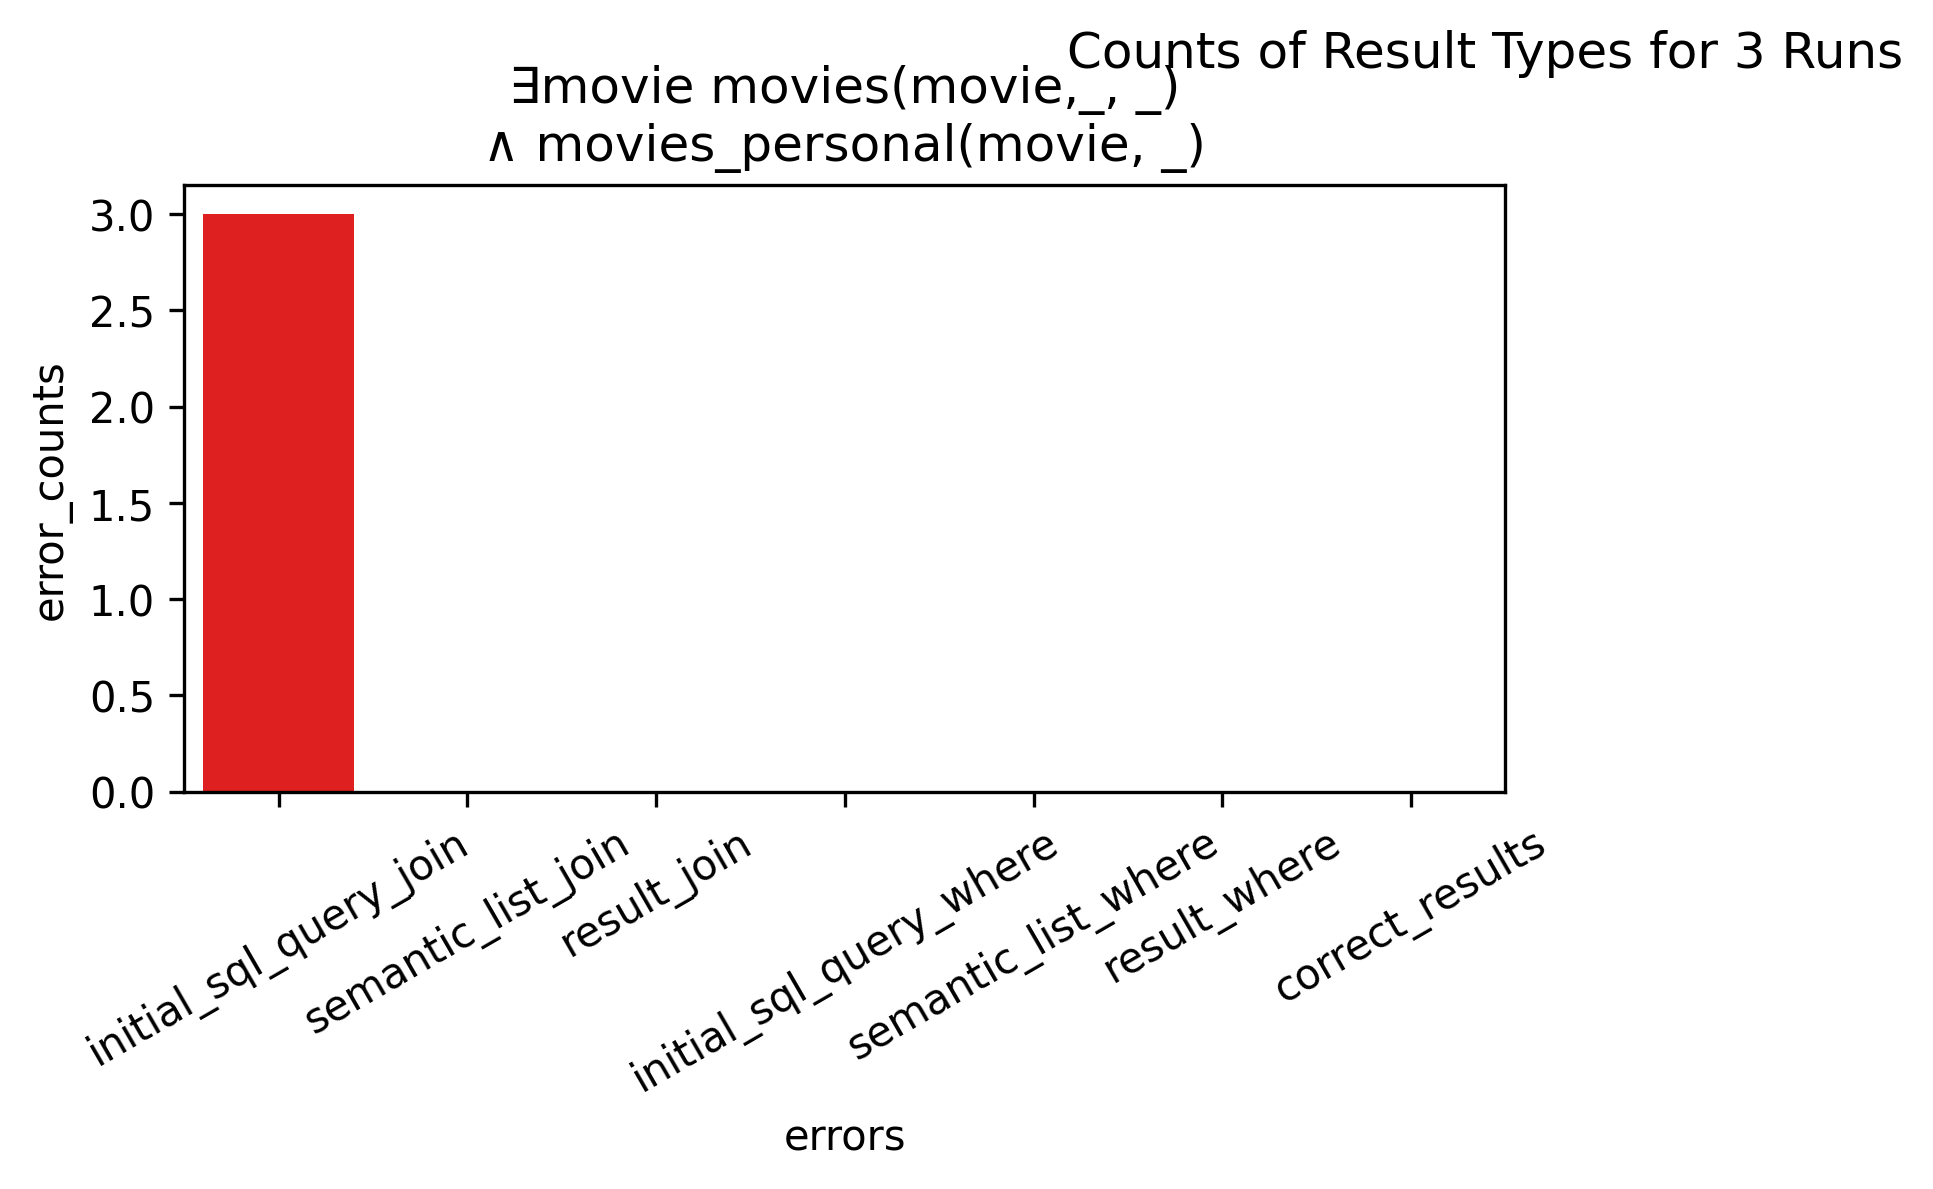
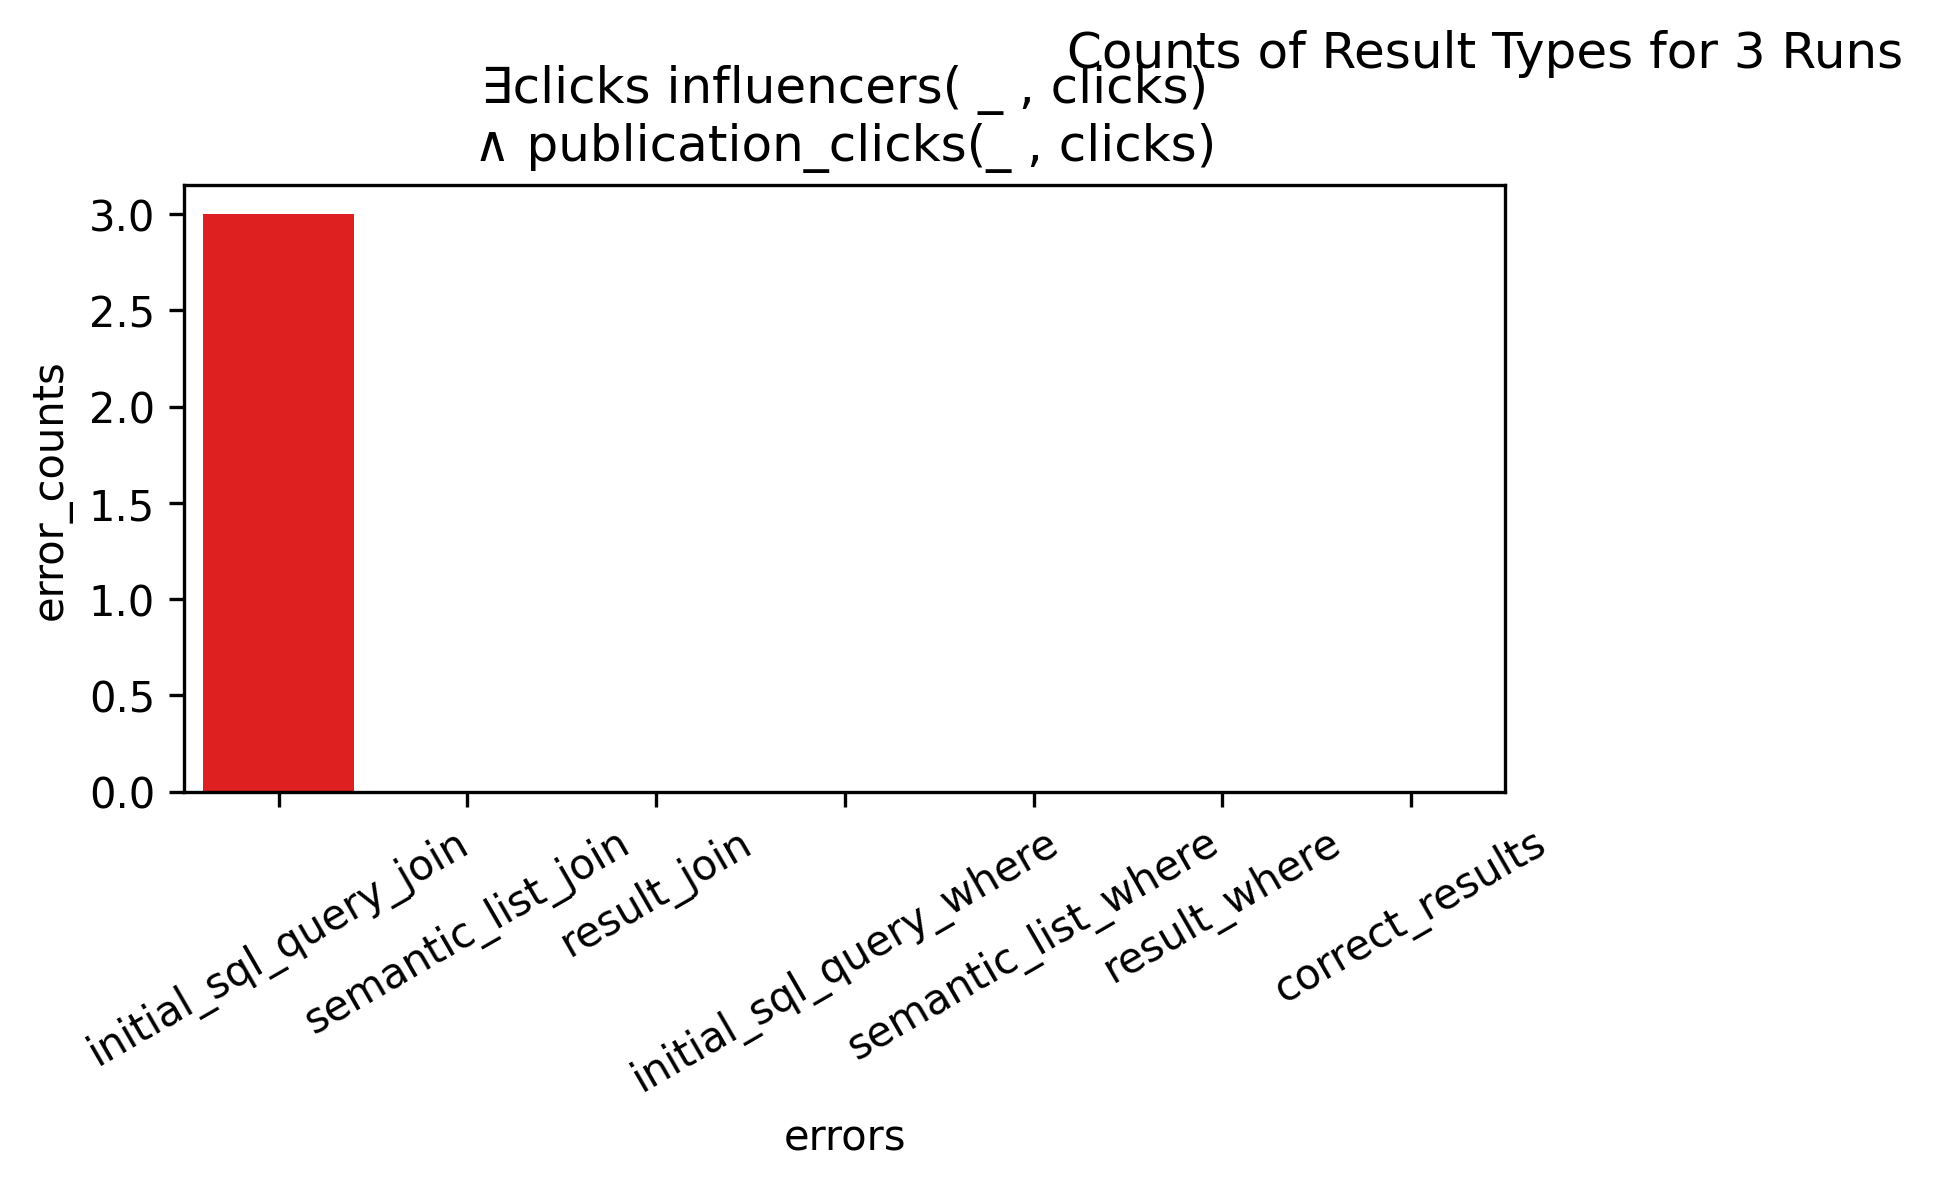
Test visualization imporved, all examples finished

Changed region(s): [[0.2483, 0.0311, 0.6208, 0.1556]]

diff --git a/test_visualization.py b/test_visualization.py
@@ -57,16 +57,25 @@ def visualize_errors_category(error_total, queries_list, categorization):
         total_dic = pd.DataFrame(total_dic) 
         # Define a mapping from categories to numbers
         category_mapping = {category: idx for idx, category in enumerate(total_dic['categories'], start=1)}
+        # Create the reverse mapping for legend labels
+        reverse_mapping = {v: k for k, v in category_mapping.items()}
         # Replace categories with their numeric mapping
         total_dic['categories_numeric'] = total_dic['categories'].map(category_mapping)
 
-
-        sns.barplot(x='categories_numeric', y='total_counts', data=total_dic, ax=ax, palette=colors)
-        ax.set_title(f"Error Counts for: {category}", fontsize=10) #Smaller fontsize
+        handles = [plt.Rectangle((0, 0), 1, 1, color=color, label=f"{key}={value}") 
+           for (key, value), color in zip(category_mapping.items(), colors)]
+        #Deprecated
+        #sns.barplot(x='categories_numeric', y='total_counts', data=total_dic, ax=ax, palette=colors)
+        #sns.barplot(x='categories_numeric', y='total_counts', data=total_dic, ax=ax, hue='categories_numeric', palette=colors, legend=False)
+        ax.bar(total_dic["categories_numeric"], total_dic["total_counts"], color=colors)
+        ax.set_title(f"Error Counts for: \n {category}", fontsize=10) #Smaller fontsize
         ax.tick_params(axis='x', rotation=0, labelsize=8) #Smaller fontsize
         ax.tick_params(axis='y', labelsize=8) #Smaller fontsize
         ax.set_xlabel("Error Type", fontsize=9) #Smaller fontsize
         ax.set_ylabel("Total Count", fontsize=9) #Smaller fontsize
+        # colors = ['red'] * 6 + ['blue'] # make sure this is defined before the code, and matches the number of categories
+        # handles = [plt.Rectangle((0, 0), 1, 1, color=color, label=label) for label, color in zip(category_mapping.keys(), colors)]
+        # ax.legend(handles=handles, title='Category Mapping', bbox_to_anchor=(1.05, 1))
         plt.tight_layout()
         # colors = sns.color_palette("tab10", len(category_mapping))  # Generate colors based on the number of categories
         # handles = [
@@ -79,13 +88,22 @@ def visualize_errors_category(error_total, queries_list, categorization):
     for j in range(i + 1, len(axes)):
         fig.delaxes(axes[j])
 
+    labels = [cat for cat in reverse_mapping.values()]
     # Add a legend outside the subplots
-    # Add a legend outside the subplots
-    handles = [plt.Rectangle((0, 0), 1, 1, color=color, label=f"{category}") for category, color in zip(categorization, colors)]
-    fig.legend(handles=handles, title="Category Mapping", bbox_to_anchor=(1.05, 1), loc='upper left')
-
+    # handles = [plt.Rectangle((0, 0), 1, 1, color=color, label=f"{key}={value}") 
+    #        for (key, value), color in zip(category_mapping.items(), colors)]
+    # fig.legend(
+    #     #handles=handles,
+    #     #labels=labels,
+    #     title="Category Mapping", bbox_to_anchor=(1.05, 1), loc='lower left')
+    title = " || ".join([f"{key} : {value}" for key, value in category_mapping.items()])
+    parts = title.split(" || ")
+    title = " || ".join(parts[:3] + ["\n"] + parts[3:])
+    fig.suptitle(f"{title}") #Smaller fontsize
+    plt.tight_layout()
     filepath_total_fig = os.path.join(os.getcwd(), "saved_plots", "total_plot_category.png")
     fig.savefig(filepath_total_fig, dpi=300, bbox_inches='tight')
+    print("Total plot saved to 'saved_plots' folder.")
     plt.show()
 
 visualize_errors_category(error_total, queries_list, categorization)

diff --git a/row_calculus_pipeline.py b/row_calculus_pipeline.py
@@ -429,7 +429,7 @@ def compare_semantics_in_list(input_list):
 
 #Designed for intial query
 def initial_query(query,context):
-        response, temp_meta = ask_gemini(f"Convert the following query to SQL. Write this query without using the AS: : {query}. Do not use subqueries, meaning try to use only one 'SELECT' command, but instead use INNER JOINS. Don't rename any of the tables in the query. For every colum reference the respective table. Do not use the Keyword CAST. Select all rows by starting with 'SELECT * '  The structure of the database is the following: {context}.", True,max_token=1000)
+        response, temp_meta = ask_gemini(f"Convert the following query to SQL. Write this query without using the AS: : {query}. Do not use subqueries, meaning try to use only one 'SELECT' command, but instead use INNER JOINS. Don't rename any of the tables in the query. For every colum reference the respective table. Do not use the Keyword CAST. Select all rows by starting with 'SELECT * '. Only use tables explicitly mentioned in the query, each table has the structure 'table(attr1, atrr2, attr3)'  The structure of the database is the following: {context}.", True,max_token=1000)
         return response, temp_meta
 
 
@@ -520,11 +520,10 @@ def row_calculus_pipeline(initial_sql_query, evaluation=False):
     #Print total usage
     print(usage_metadata_total)
     #Return result
-    if result:
-        if evaluation:
-            return initial_sql_query, semantic_list, result
-        else:
-            return result
+    if evaluation:
+        return initial_sql_query, semantic_list, result
+    else:
+        return result
 
 #Shareowner and Animalowner examples with equality
 # calculus='''{name, shares | ∃id (SHAREOWNER1ROW(id, name, shares) ∧ ANIMALOWNER1ROW(id , _, 'dog'))}'''

diff --git a/test_evaluation.py b/test_evaluation.py
@@ -267,7 +267,7 @@ def comparison_logic(result_dic, target_instance):
 def error_logic(loaded_dictionary, queries):
     max_retries = 30
     #MODIFY
-    retry_delay = 45
+    retry_delay = 60
 
     
 
@@ -447,8 +447,8 @@ def evaluation_pipeline(queries):
     
     
 
-#How many runs per expression, ToDO:  16:17 and ongoing
+#How many runs per expression, Done everything
 RUNS=3
 queries= [i for i, _ in test_cases]
-queries=queries[16:17]
-evaluation_pipeline(queries)
+# queries=queries[18:19]
+# evaluation_pipeline(queries)

diff --git a/evaluation.py b/evaluation.py
@@ -100,7 +100,7 @@ test_cases = [
         {('Wings of Desire', 'fantasy','4/5' )}
     ),
     (
-        '''∃clicks influencers(, clicks) ∧ publication_clicks(, clicks)''',
+        '''∃clicks influencers( _ , clicks) ∧ publication_clicks(_ , clicks)''',
         {('princess', 'one thousand', '24.12.2022', '1000'), ('makeuptutorial', '1000 thousand', '17.01.2011', '1000000'), ('surviver1000', '1 million', '17.01.2011', '1000000')}
     )
 
